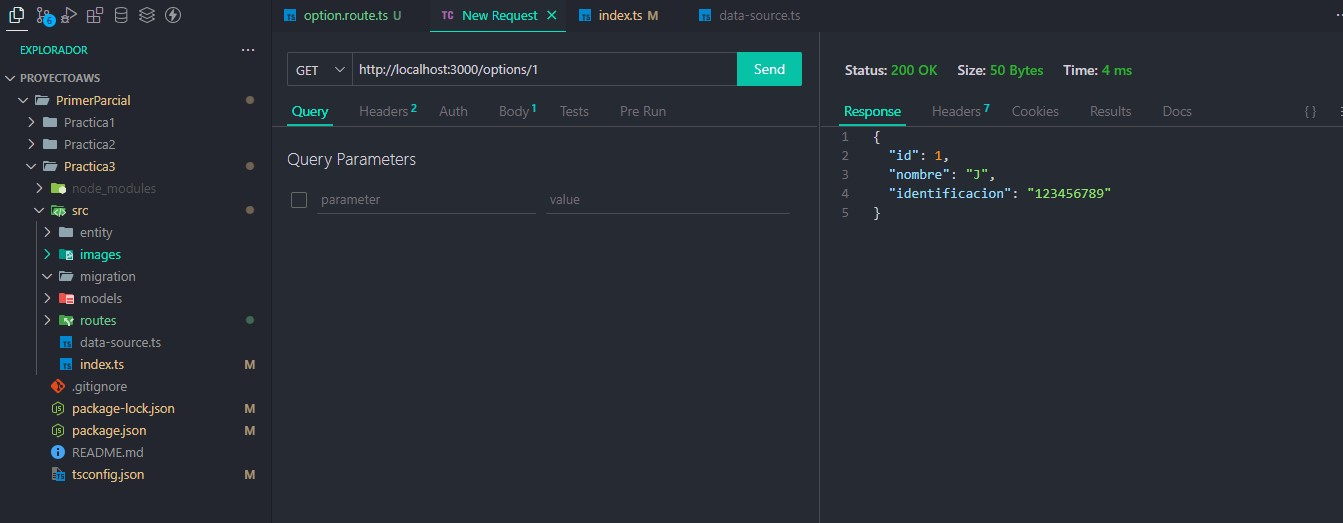
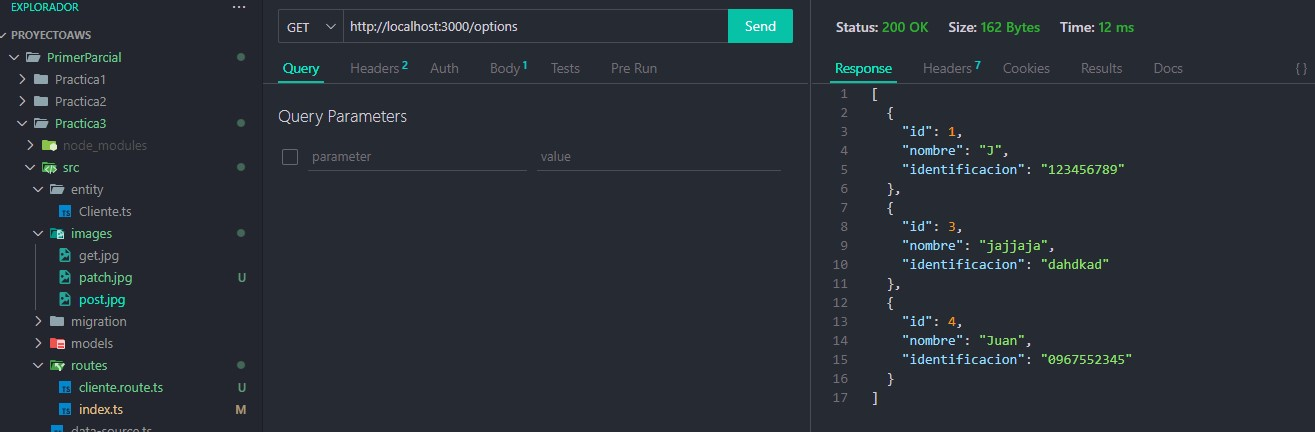
Tema:Gastos Diarios/ Practica 3

diff --git a/PrimerParcial/Practica3/src/routes/cliente.route.ts b/PrimerParcial/Practica3/src/routes/cliente.route.ts
@@ -2,11 +2,11 @@ import { Router } from 'express';
 import { AppDataSource } from '../data-source'
 import { Cliente } from '../entity/Cliente'
 
-const router = Router()
+const routerCliente = Router()
 const clienteRepository = AppDataSource.getRepository(Cliente)
 
 //Consulta general (GET): Obtener todos los clientes
-router.get('/', async (req, res) => {
+routerCliente.get('/', async (req, res) => {
     try {
         const clientes = await clienteRepository.find()
         res.json(clientes)
@@ -16,14 +16,14 @@ router.get('/', async (req, res) => {
 })
 
 // Consulta individual (GET): Obtener un cliente por ID
-router.get('/:id', async (req, res) => {
+routerCliente.get('/:id', async (req, res) => {
     try {
         const { id } = req.params
         const cliente = await clienteRepository.findOne({ where: { id: parseInt(id) } })
         if (cliente) {
-        res.json(cliente)
+            res.json(cliente)
         } else {
-        res.status(404).json({ message: 'Cliente no encontrado' })
+            res.status(404).json({ message: 'Cliente no encontrado' })
         }
     } catch (error) {
         res.status(500).json({ message: 'Error al obtener el cliente', error })
@@ -31,7 +31,7 @@ router.get('/:id', async (req, res) => {
 })
 
 // Crear (POST): Crear un nuevo cliente
-router.post('/', async (req, res) => {
+routerCliente.post('/', async (req, res) => {
     try {
         const { nombre, identificacion } = req.body
         const nuevoCliente = clienteRepository.create({ nombre, identificacion })
@@ -43,20 +43,20 @@ router.post('/', async (req, res) => {
 })
 
 // Modificar (PATCH): Actualizar parcialmente un cliente por ID
-router.patch('/:id', async (req, res) => {
+routerCliente.patch('/:id', async (req, res) => {
     try {
         const { id } = req.params
         const { nombre, identificacion } = req.body
         const cliente = await clienteRepository.findOne({ where: { id: parseInt(id) } })
 
         if (cliente) {
-        if (nombre) cliente.nombre = nombre
-        if (identificacion) cliente.identificacion = identificacion
+            if (nombre) cliente.nombre = nombre
+            if (identificacion) cliente.identificacion = identificacion
 
-        const clienteActualizado = await clienteRepository.save(cliente)
-        res.json(clienteActualizado)
+            const clienteActualizado = await clienteRepository.save(cliente)
+            res.json(clienteActualizado)
         } else {
-        res.status(404).json({ message: 'Cliente no encontrado' })
+            res.status(404).json({ message: 'Cliente no encontrado' })
         }
     } catch (error) {
         res.status(500).json({ message: 'Error al actualizar el cliente', error })
@@ -64,17 +64,19 @@ router.patch('/:id', async (req, res) => {
 })
 
 // Eliminar (DELETE): Eliminar un cliente por ID
-// router.delete('/:id', async (req, res) => {
-//     try {
-//         const { id } = req.params
-//         const result = await clienteRepository.delete(id)
-//         if (result.affected === 0) {
-//         return res.status(404).json({ message: 'Cliente no encontrado' })
-//         }
-//         res.json({ message: 'Cliente eliminado correctamente' })
-//     } catch (error) {
-//         res.status(500).json({ message: 'Error al eliminar el cliente', error })
-//     }
-// })
+routerCliente.delete('/:id', async (req, res) => {
+    try {
+        const { id } = req.params
+        const cliente = await clienteRepository.findOne({ where: { id: parseInt(id) } })
+        if (cliente) {
+            await clienteRepository.remove(cliente)
+            res.json({ message: 'Cliente eliminado' })
+        } else {
+            res.status(404).json({ message: 'Cliente no encontrado' })
+        }
+    } catch (error) {
+        res.status(500).json({ message: 'Error al eliminar el cliente', error })
+    }
+})
 
-export default router
+export default routerCliente

diff --git a/PrimerParcial/Practica3/src/routes/gasto.route.ts b/PrimerParcial/Practica3/src/routes/gasto.route.ts
@@ -1,0 +1,81 @@
+import { Router } from 'express';
+import { AppDataSource } from '../data-source'
+import { Gasto } from '../entity/Gasto'
+
+const routerGasto = Router()
+const gastoRepository = AppDataSource.getRepository(Gasto)
+
+// //Consulta general (GET): Obtener todos los clientes
+// routerGasto.get('/', async (req, res) => {
+//     try {
+//         const conceptos = await conceptoRepository.find()
+//         res.json(conceptos)
+//     } catch (error) {
+//         res.status(500).json({ message: 'Error al obtener los conceptos', error })
+//     }
+// })
+
+// // Consulta individual (GET): Obtener un cliente por ID
+// routerGasto.get('/:id', async (req, res) => {
+//     try {
+//         const { id } = req.params
+//         const concepto = await conceptoRepository.findOne({ where: { id: parseInt(id) } })
+//         if (concepto) {
+//             res.json(concepto)
+//         } else {
+//             res.status(404).json({ message: 'Concepto no encontrado' })
+//         }
+//     } catch (error) {
+//         res.status(500).json({ message: 'Error al obtener el concepto', error })
+//     }
+// })
+
+// // Crear (POST): Crear un nuevo cliente
+// routerGasto.post('/', async (req, res) => {
+//     try {
+//         const { descripcion } = req.body
+//         const nuevoConcepto = conceptoRepository.create({ descripcion })
+//         const conceptoGuardado = await conceptoRepository.save(nuevoConcepto)
+//         res.json(conceptoGuardado)
+//     } catch (error) {
+//         res.status(500).json({ message: 'Error al crear el concepto', error })
+//     }
+// })
+
+// // Modificar (PATCH): Actualizar parcialmente un cliente por ID
+// routerGasto.patch('/:id', async (req, res) => {
+//     try {
+//         const { id } = req.params
+//         const { descripcion } = req.body
+//         const concepto = await conceptoRepository.findOne({ where: { id: parseInt(id) } })
+
+//         if (concepto) {
+//             if (descripcion) concepto.descripcion = descripcion
+
+//             const conceptoActualizado = await conceptoRepository.save(concepto)
+//             res.json(conceptoActualizado)
+//         } else {
+//             res.status(404).json({ message: 'Concepto no encontrado' })
+//         }
+//     } catch (error) {
+//         res.status(500).json({ message: 'Error al actualizar el concepto', error })
+//     }
+// })
+
+// Eliminar (DELETE): Eliminar un cliente por ID
+routerGasto.delete('/:id', async (req, res) => {
+    try {
+        const { id } = req.params
+        const gasto = await gastoRepository.findOne({ where: { id: parseInt(id) } })
+        if (gasto) {
+            await gastoRepository.remove(gasto)
+            res.json({ message: 'Gasto eliminado' })
+        } else {
+            res.status(404).json({ message: 'Gasto no encontrado' })
+        }
+    } catch (error) {
+        res.status(500).json({ message: 'Error al eliminar el gasto', error })
+    }
+})
+
+export default routerGasto

diff --git a/PrimerParcial/Practica3/src/routes/concepto.route.ts b/PrimerParcial/Practica3/src/routes/concepto.route.ts
@@ -1,0 +1,81 @@
+import { Router } from 'express';
+import { AppDataSource } from '../data-source'
+import { Concepto } from '../entity/Concepto'
+
+const routerConcepto = Router()
+const conceptoRepository = AppDataSource.getRepository(Concepto)
+
+//Consulta general (GET): Obtener todos los clientes
+routerConcepto.get('/', async (req, res) => {
+    try {
+        const conceptos = await conceptoRepository.find()
+        res.json(conceptos)
+    } catch (error) {
+        res.status(500).json({ message: 'Error al obtener los conceptos', error })
+    }
+})
+
+// Consulta individual (GET): Obtener un cliente por ID
+routerConcepto.get('/:id', async (req, res) => {
+    try {
+        const { id } = req.params
+        const concepto = await conceptoRepository.findOne({ where: { id: parseInt(id) } })
+        if (concepto) {
+            res.json(concepto)
+        } else {
+            res.status(404).json({ message: 'Concepto no encontrado' })
+        }
+    } catch (error) {
+        res.status(500).json({ message: 'Error al obtener el concepto', error })
+    }
+})
+
+// Crear (POST): Crear un nuevo cliente
+routerConcepto.post('/', async (req, res) => {
+    try {
+        const { descripcion } = req.body
+        const nuevoConcepto = conceptoRepository.create({ descripcion })
+        const conceptoGuardado = await conceptoRepository.save(nuevoConcepto)
+        res.json(conceptoGuardado)
+    } catch (error) {
+        res.status(500).json({ message: 'Error al crear el concepto', error })
+    }
+})
+
+// Modificar (PATCH): Actualizar parcialmente un cliente por ID
+routerConcepto.patch('/:id', async (req, res) => {
+    try {
+        const { id } = req.params
+        const { descripcion } = req.body
+        const concepto = await conceptoRepository.findOne({ where: { id: parseInt(id) } })
+
+        if (concepto) {
+            if (descripcion) concepto.descripcion = descripcion
+
+            const conceptoActualizado = await conceptoRepository.save(concepto)
+            res.json(conceptoActualizado)
+        } else {
+            res.status(404).json({ message: 'Concepto no encontrado' })
+        }
+    } catch (error) {
+        res.status(500).json({ message: 'Error al actualizar el concepto', error })
+    }
+})
+
+// Eliminar (DELETE): Eliminar un cliente por ID
+routerConcepto.delete('/:id', async (req, res) => {
+    try {
+        const { id } = req.params
+        const concepto = await conceptoRepository.findOne({ where: { id: parseInt(id) } })
+        if (concepto) {
+            await conceptoRepository.remove(concepto)
+            res.json({ message: 'Concepto eliminado' })
+        } else {
+            res.status(404).json({ message: 'Concepto no encontrado' })
+        }
+    } catch (error) {
+        res.status(500).json({ message: 'Error al eliminar el concepto', error })
+    }
+})
+
+export default routerConcepto

diff --git a/PrimerParcial/Practica3/src/index.ts b/PrimerParcial/Practica3/src/index.ts
@@ -1,27 +1,12 @@
 import { AppDataSource } from "./data-source"
-import { Cliente } from "./entity/Cliente"
 import { crearCliente } from "./models/crearCliente";
 import { consultarClienteId, consultarClienteIdentificacion } from "./models/ConsultarCliente";
 import server from 'express'
-import { optionRouter } from "./routes"
+import routerCliente from "./routes/cliente.route";
+import routerConcepto from "./routes/concepto.route";
+import routerGasto from "./routes/gasto.route";
 
 //Se esta trabajando con Xampp como base de datos local. 
-// AppDataSource.initialize().then(async () => {
-//     console.log("Base de datos inicializada correctamente");
-
-//     // Crear un nuevo cliente
-//     // await crearCliente("J", "123456789");
-
-//     // Consultar cliente por ID
-//     // await consultarClienteId(1); 
-
-//     // Consultar cliente por identificación
-//     // await consultarClienteIdentificacion("123456789");
-
-//     // console.log("Here you can setup and run express / fastify / any other framework.")
-
-// }).catch(error => console.log(error));
-
 const app = server();
 app.use(server.json());
 
@@ -29,12 +14,28 @@ AppDataSource.initialize()
     .then(() => {
         console.log("Base de datos inicializada correctamente");
         
-        app.use('/options', optionRouter);
+        // app.use('/clientes', routerCliente);
+        // app.use('/conceptos', routerConcepto);
+        // app.use('/gastos', routerConcepto);
 
         app.listen(3000, () => {
             console.log('Server on port 3000');
         });
     }).catch(error => console.log(error));
 
-//No me dio tiempo para las otras 2 entidades :)
-//falla el delete no se porque
+
+// AppDataSource.initialize().then(async () => {
+//     console.log("Base de datos inicializada correctamente");
+
+//     // Crear un nuevo cliente
+//     await crearCliente("J", "123456789");
+
+//     // Consultar cliente por ID
+//     await consultarClienteId(1); 
+
+//     // Consultar cliente por identificación
+//     await consultarClienteIdentificacion("123456789");
+
+//     console.log("Here you can setup and run express / fastify / any other framework.")
+
+// }).catch(error => console.log(error));

diff --git a/PrimerParcial/Practica3/src/data-source.ts b/PrimerParcial/Practica3/src/data-source.ts
@@ -1,6 +1,8 @@
 import "reflect-metadata"
 import { DataSource } from "typeorm"
 import { Cliente } from "./entity/Cliente"
+import { Concepto } from "./entity/Concepto"
+import { Gasto } from "./entity/Gasto"
 
 export const AppDataSource = new DataSource({
     type: "mysql",
@@ -11,7 +13,7 @@ export const AppDataSource = new DataSource({
     database: "test",
     synchronize: true,
     logging: false,
-    entities: [Cliente],
+    entities: [Cliente, Concepto, Gasto],
     migrations: [],
     subscribers: [],
 })

diff --git a/PrimerParcial/Practica3/src/routes/index.ts b/PrimerParcial/Practica3/src/routes/index.ts
@@ -1,8 +1,12 @@
-import optionRouter from './option.route'
-import { Cliente } from '../entity/Cliente'
+// import optionRouter from './cliente.route'
+import RouterCliente from './cliente.route'
+import RouterConcepto from './concepto.route'
+import RouterGasto from './gasto.route'
 
 
 export {
-    optionRouter,
-    Cliente
+    // optionRouter,
+    RouterCliente,
+    RouterConcepto,
+    RouterGasto
 }

diff --git a/PrimerParcial/Practica3/src/entity/Gasto.ts b/PrimerParcial/Practica3/src/entity/Gasto.ts
@@ -1,0 +1,18 @@
+import { Entity, PrimaryGeneratedColumn, Column } from "typeorm"
+
+
+@Entity()
+export class Gasto {
+
+    @PrimaryGeneratedColumn()
+    id: number
+
+    @Column({ type: 'date' })
+    fecha: Date
+
+    @Column({ type: 'time' })
+    hora: string
+
+    @Column()
+    ValorGasto: number
+}

diff --git a/PrimerParcial/Practica3/src/entity/Concepto.ts b/PrimerParcial/Practica3/src/entity/Concepto.ts
@@ -1,0 +1,13 @@
+import { Entity, PrimaryGeneratedColumn, Column } from "typeorm"
+
+
+@Entity()
+export class Concepto {
+
+    @PrimaryGeneratedColumn()
+    id: number
+
+    @Column()
+    descripcion: string
+
+}
